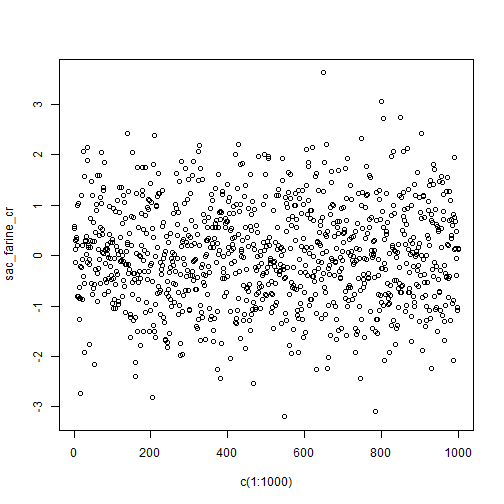
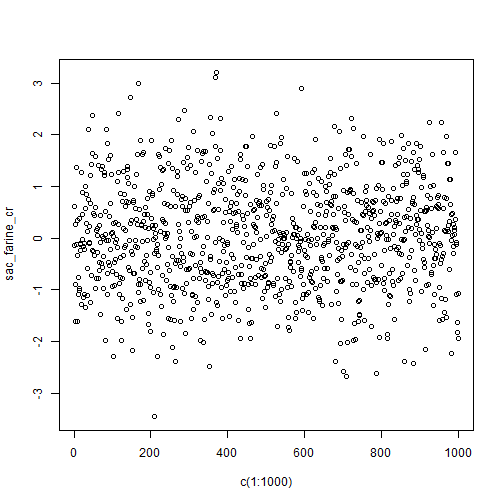
Modif supp ex supp

diff --git a/Exercices_supplémentaires/index.html b/Exercices_supplémentaires/index.html
@@ -983,7 +983,7 @@ Avancer de 130 mètres jusqu'à l'arrivée
 
 # Exemple 6 (suite)
 
-Dans le fichier [DeplacementRemi.R](./donnees/DeplacementRemi.R), la fonction permettant de déterminer l'emplacement (la coordonnée x et y du plan cartésien) après chaque déplacement de Rémi y est écrite. L'objet ***section1*** nous renvoie une matrice des positions empruntées par Rémi.
+Dans le fichier [DeplacementRemi.R](./donnees/DeplacementRemi.R), la fonction permettant de déterminer l'emplacement (la coordonnée x et y du plan cartésien) après chaque déplacement de Rémi y est écrite. L'objet **section1** nous renvoie la matrice des positions empruntées par Rémi lors de ces déplacements dans la section 1.
 
 Notons que Rémi débute à la coordonnée (0,0), et qu'il regarde déjà en direction du chemin qu'il doit prendre. (De haut, il regarde vers la droite)
 
@@ -1043,8 +1043,6 @@ class: inverse, middle, center
 ---
 
 # Exemple 6 (solution)
-
-D'abord, on compile la fonction *mouvement*.
 
 
 ```r
@@ -1181,9 +1179,9 @@ section4
 
 
 ```r
-matfinal &lt;- rbind(section1,section2,section3,section4)
-matfinal # rbind() pour combiner toutes les matrices ensembles:
+matfinal &lt;- rbind(section1,section2,section3,section4) # rbind() pour combiner toutes les matrices ensembles:
 ```
+
 
 ```
 ##          [,1] [,2]
@@ -1295,7 +1293,7 @@ sac_farine_cr &lt;- (sac_farine-250)/5 # centrer et réduire les sacs
 plot(c(1:1000),sac_farine_cr) # On affiche le graphique
 ```
 
-![](index_files/figure-html/unnamed-chunk-21-1.png)&lt;!-- --&gt;
+![](index_files/figure-html/unnamed-chunk-22-1.png)&lt;!-- --&gt;
 
 ---
 
@@ -1363,31 +1361,31 @@ calcul_sac(rnorm(n = 1000, mean = 250, sd = 5))
 ```
 
 ```
-## [1] 4
-```
-
-```r
-calcul_sac(rnorm(n = 1000, mean = 250, sd = 5))
-```
-
-```
-## [1] "La machine est clairement défectueuse"
-```
-
-```
-## [1] 4
-```
-
-```r
-calcul_sac(rnorm(n = 1000, mean = 250, sd = 5))
-```
-
-```
-## [1] "La machine est clairement défectueuse"
-```
-
-```
 ## [1] 5
+```
+
+```r
+calcul_sac(rnorm(n = 1000, mean = 250, sd = 5))
+```
+
+```
+## [1] "Il n'y a aucun problème avec la machine"
+```
+
+```
+## [1] 2
+```
+
+```r
+calcul_sac(rnorm(n = 1000, mean = 250, sd = 5))
+```
+
+```
+## [1] "La machine est clairement défectueuse"
+```
+
+```
+## [1] 4
 ```
 
 ---
@@ -1431,7 +1429,7 @@ for (x in -100:100){
 plot(c(-100:100),y, type = "l")
 ```
 
-![](index_files/figure-html/unnamed-chunk-26-1.png)&lt;!-- --&gt;
+![](index_files/figure-html/unnamed-chunk-27-1.png)&lt;!-- --&gt;
 
 
 ---
@@ -1581,7 +1579,7 @@ resultat[1:10] # idée des 10 première tentatives
 ```
 
 ```
-##  [1] 15  5  7  8 11 27  6  5  7  7
+##  [1]  9 31  5  8  7  4  6 12 15 16
 ```
 
 ```r
@@ -1589,7 +1587,7 @@ mean(resultat) # Moyenne du nombre de lancer total
 ```
 
 ```
-## [1] 11.619
+## [1] 11.6566
 ```
 
 
